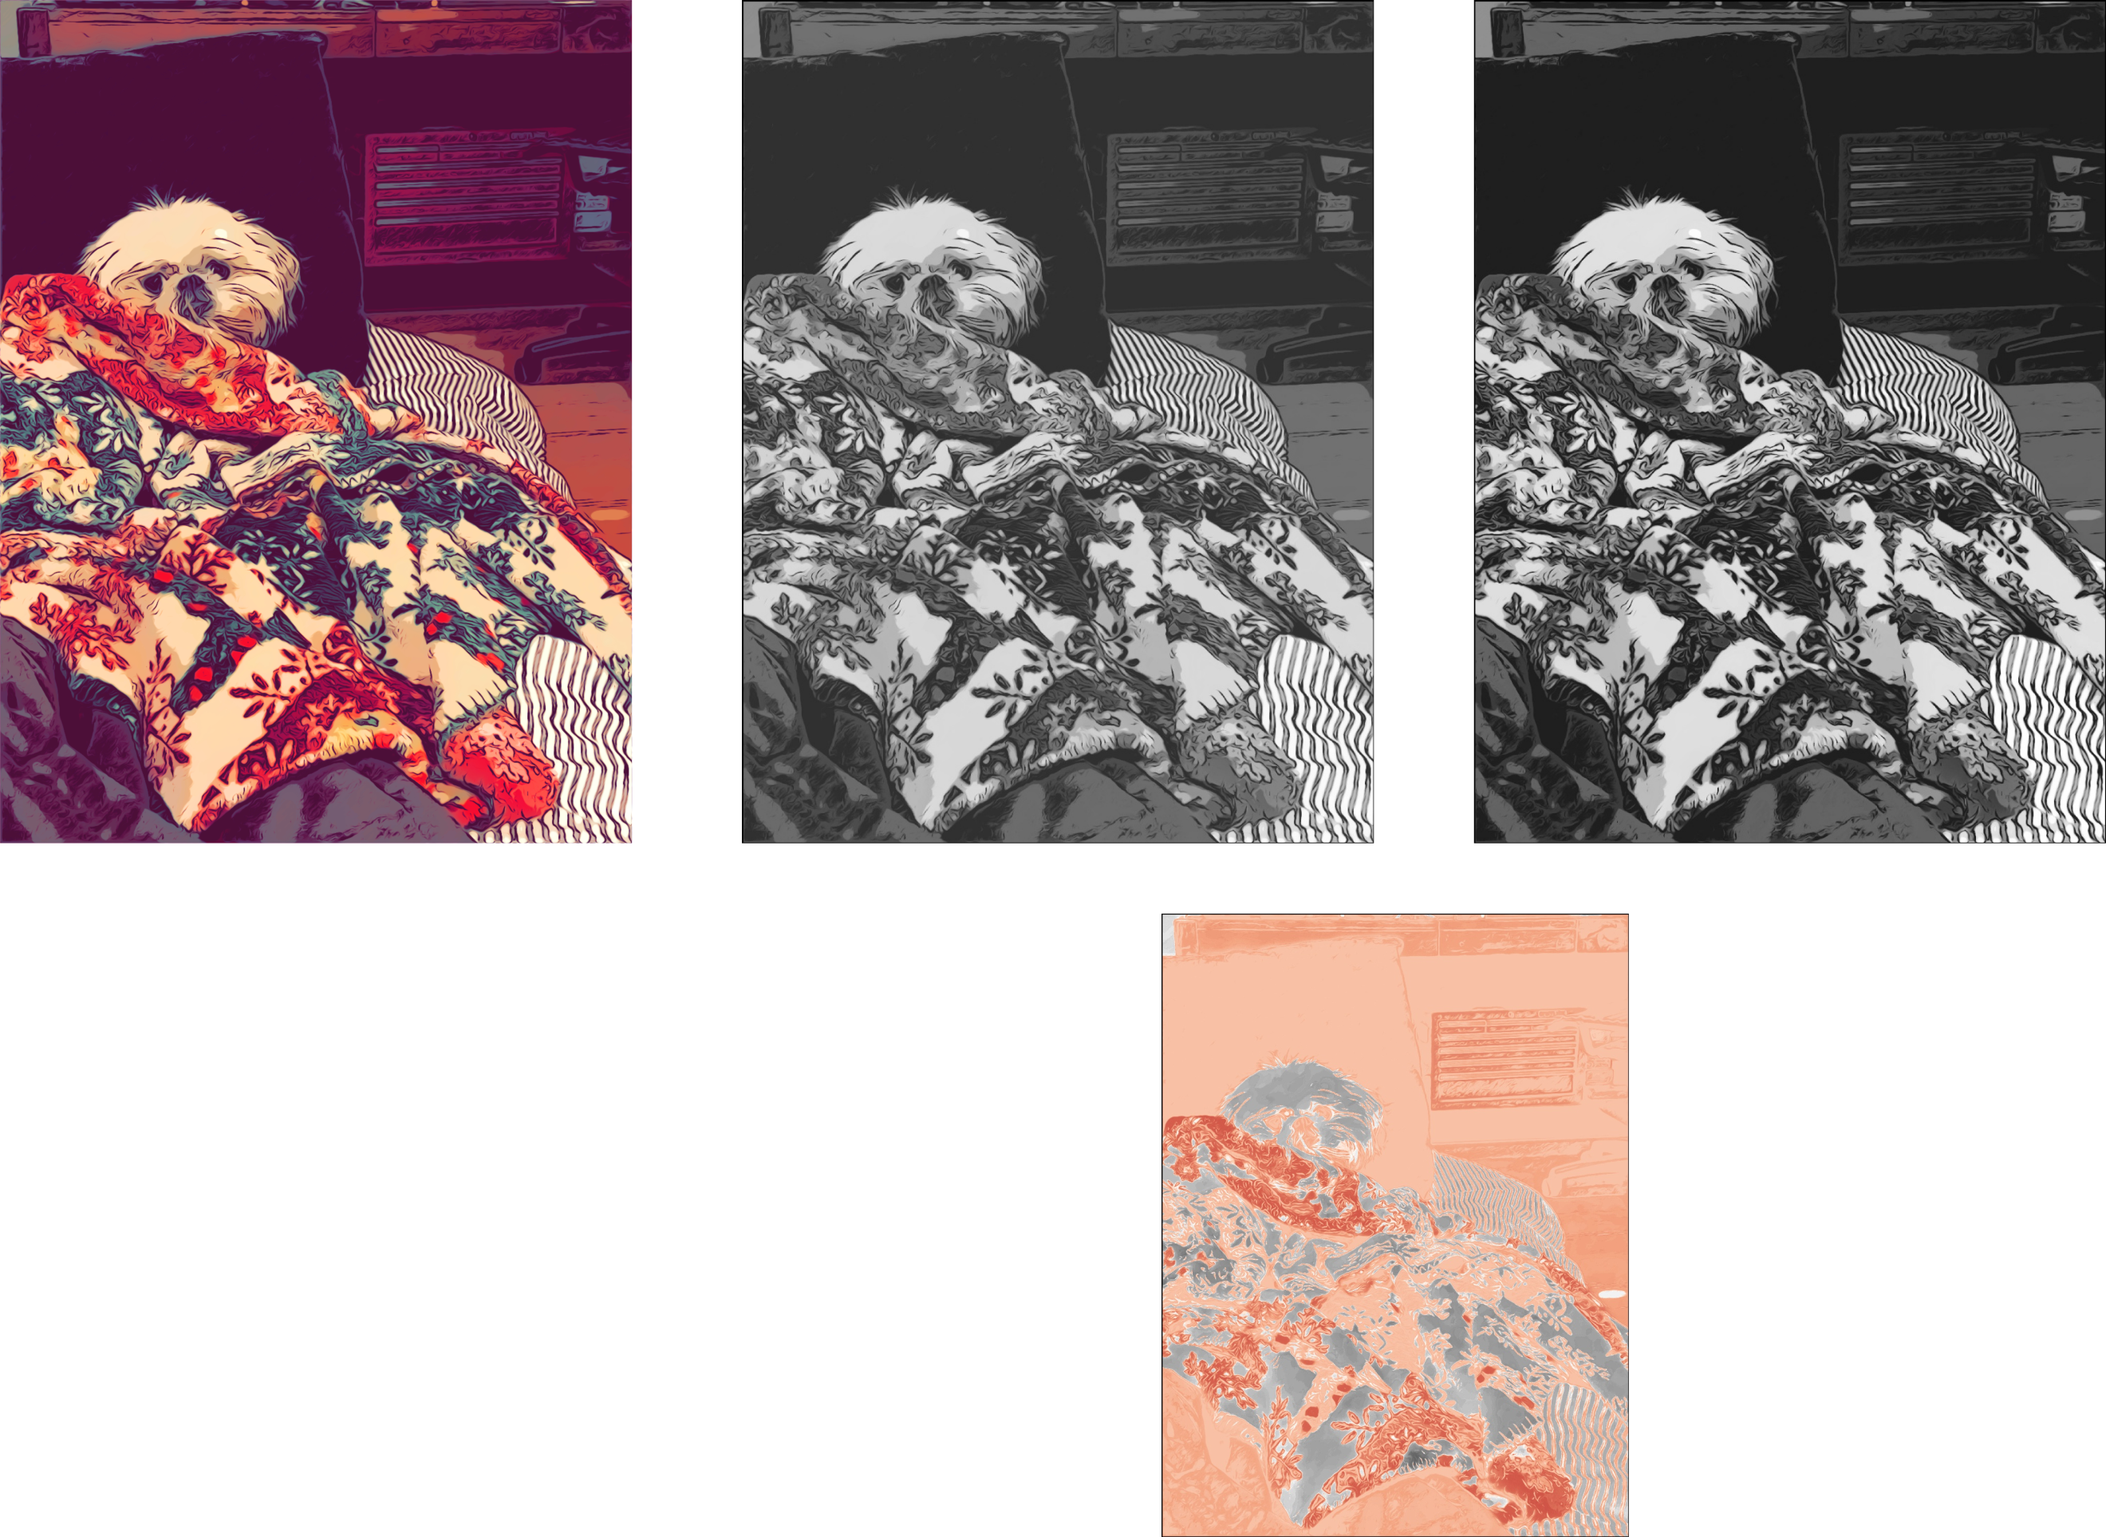
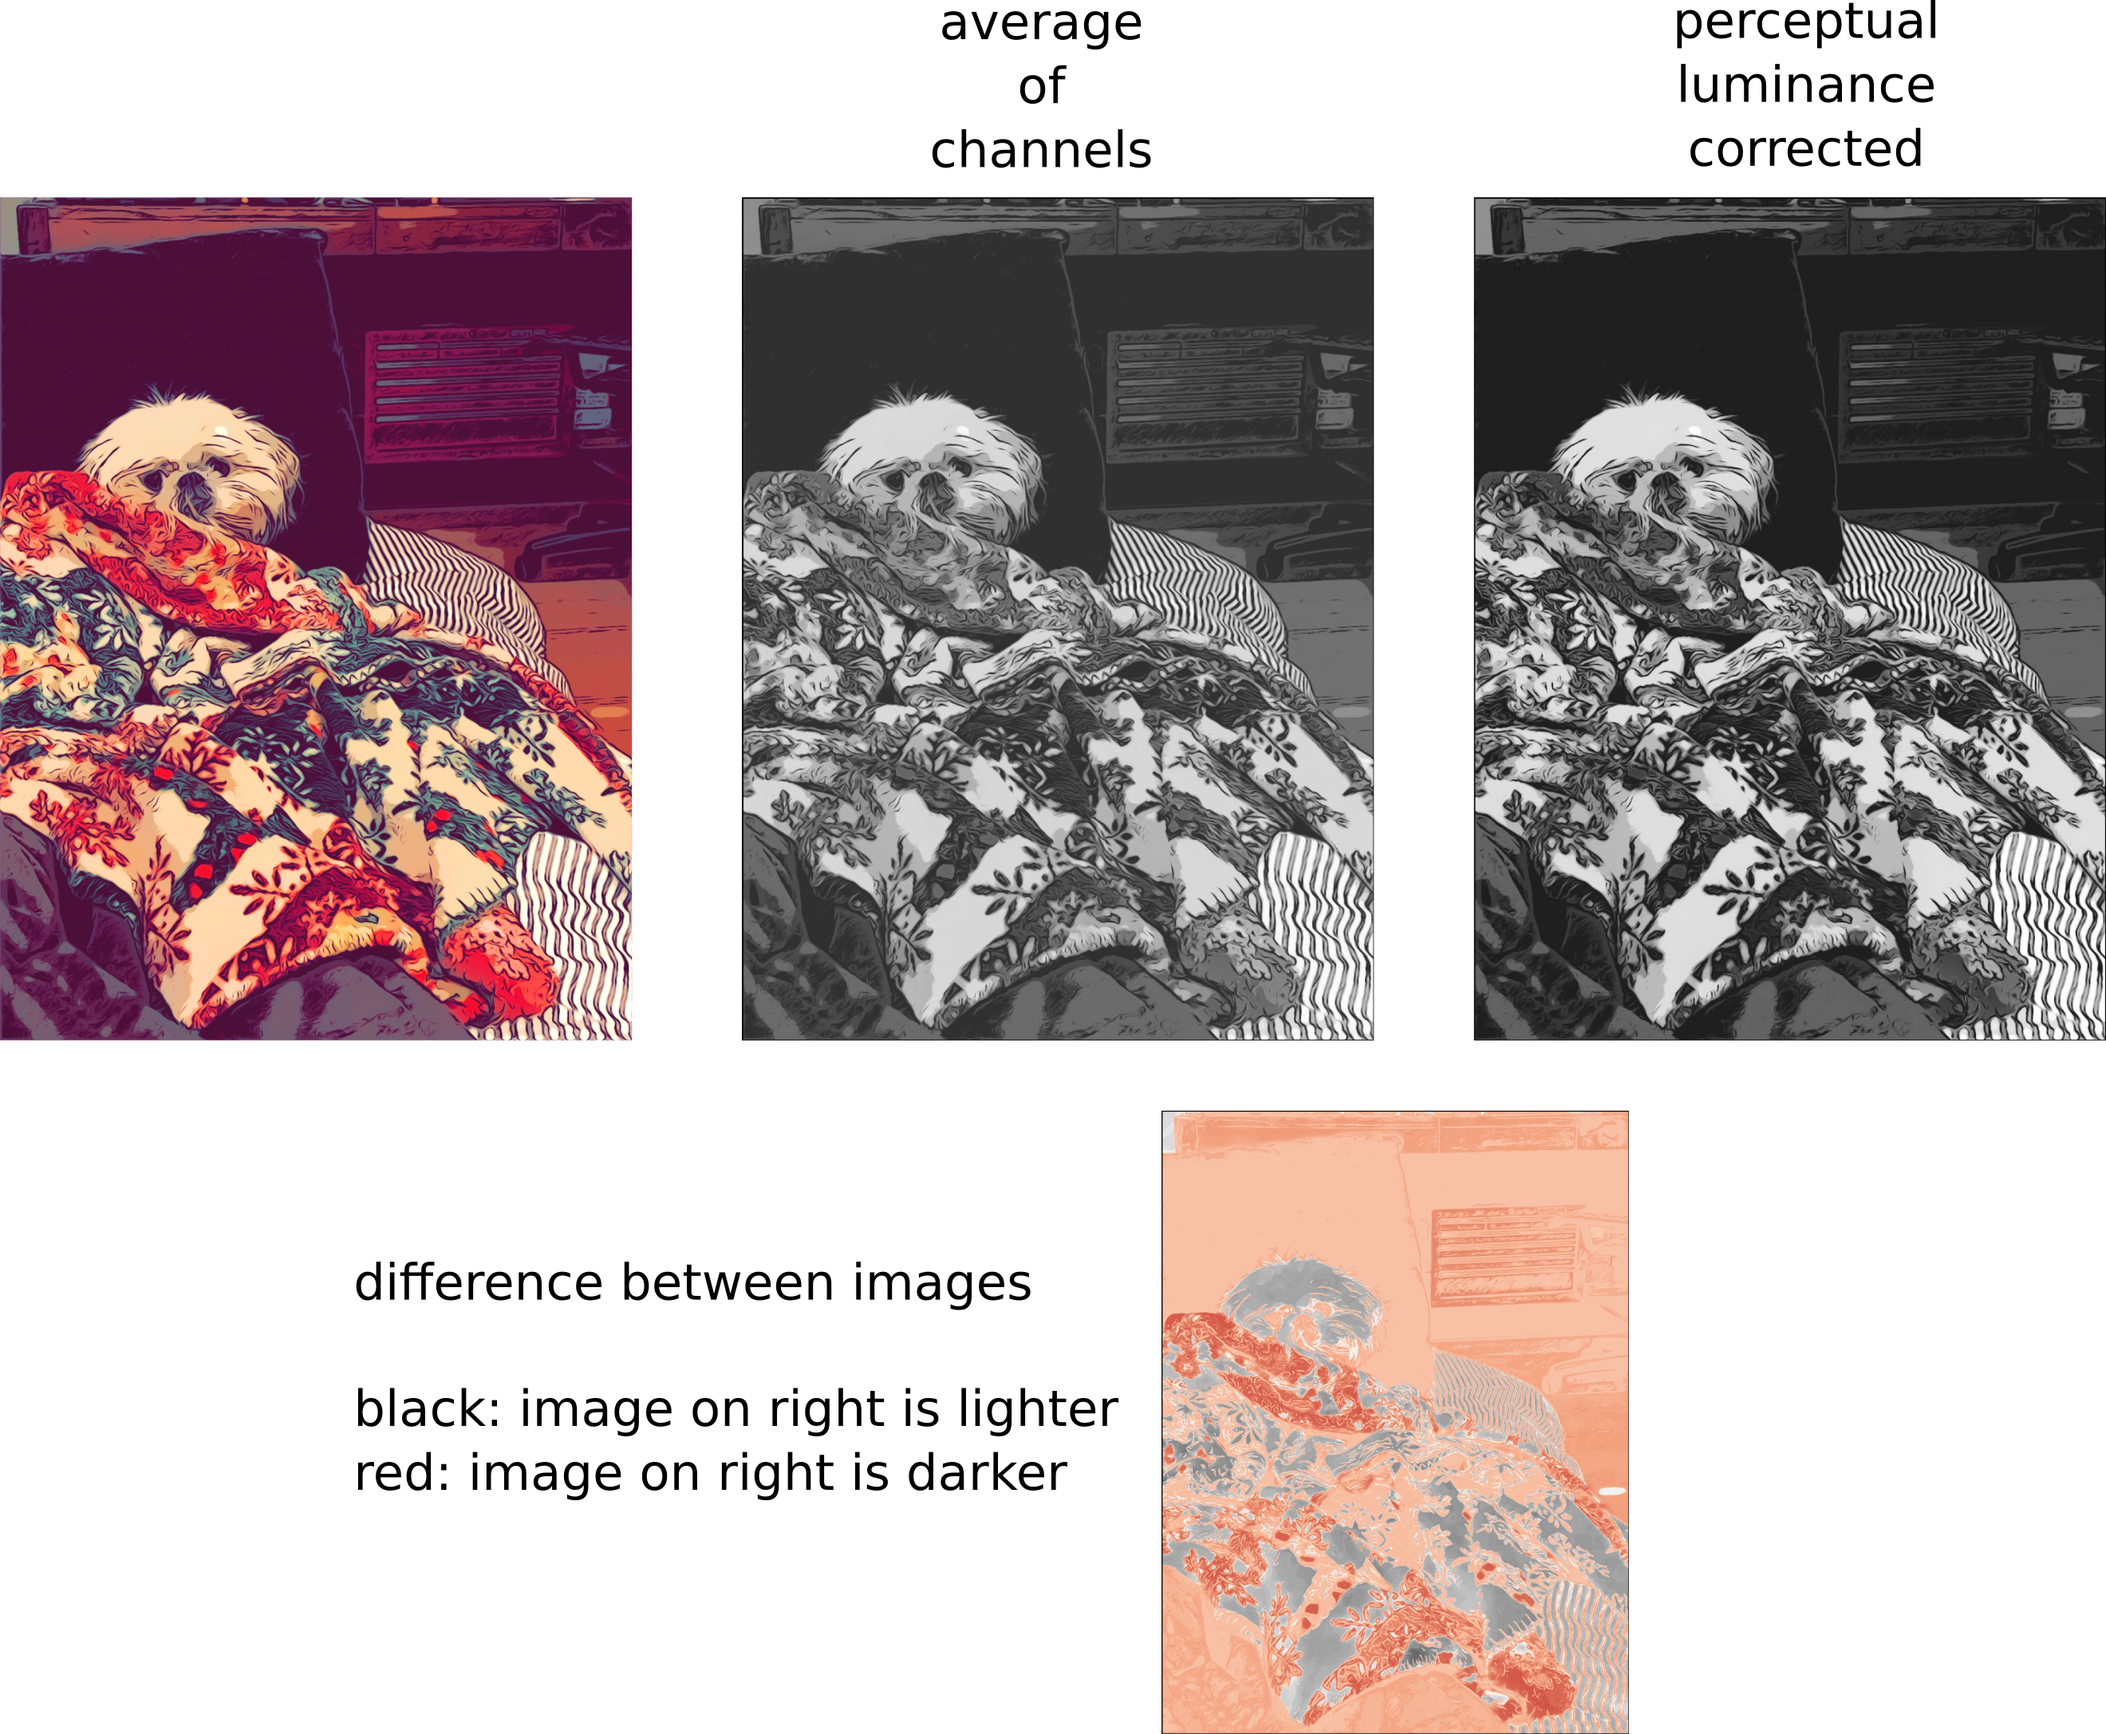
rgb to grayscale post update

diff --git a/convert_rgb_to_grayscale.html b/convert_rgb_to_grayscale.html
@@ -123,9 +123,9 @@ color_img = np.asarray(Image.open(img_filename)) / 255</code></pre>
           style="height: 50px;">
         </a>
         </p>
-          
-The results are noticeably different, and, to Mayeye, much more accurate.
-
+        <p>
+          The results are noticeably different and, to my eye, more accurate.
+        </p>
 
         <p style="text-align:center;">
         <img title="Gray from weighted averaging red, green, and blue channels"
@@ -159,6 +159,14 @@ The results are noticeably different, and, to Mayeye, much more accurate.
           like adding, subtracting, or averaging bands, we first have
           to undo the compression and get the luminance
           back into a linear representation.
+        </p>
+
+        <p style="text-align:center;">
+        <img title="Gray accounting for gamma compression"
+          src="images/image_processing/gray_nl.png"
+          alt="Gray accounting for gamma compression"
+          style="height: 500px;">
+          Image credit: Diane Rohrer
         </p>
 
         <h3>Well, actually...a linear approximation</h3>
